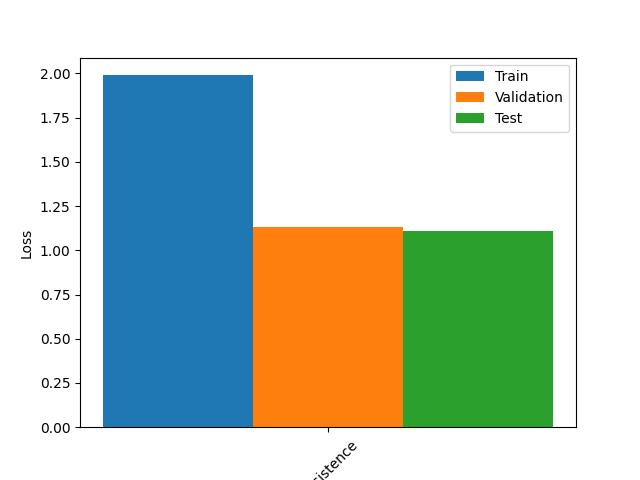
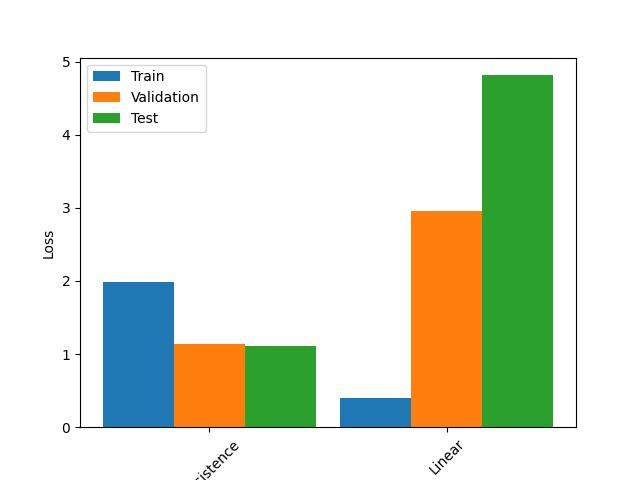
add linear model

diff --git a/Experiments/run_experiments.py b/Experiments/run_experiments.py
@@ -1,4 +1,5 @@
 from experiments_package.models.Baseline import Baseline
+from experiments_package.models.Linear import Linear
 from experiments_package.experiments.experiment1 import Experiment1
 from experiments_package.general.config import ProductIds
 
@@ -11,6 +12,7 @@ if __name__ == "__main__":
                     ProductIds.BENS_LUNCHTIME.value
                 ],
                 forecasting_width=1,
-            )
+            ),
+            "Linear": Linear(window_width=3, label_width=1, feature_size=87),
         }
     )

diff --git a/Experiments/experiments_package/models/Linear.py b/Experiments/experiments_package/models/Linear.py
@@ -1,0 +1,11 @@
+import tensorflow as tf
+
+
+def Linear(window_width, feature_size, label_width):
+    return tf.keras.Sequential(
+        [
+            tf.keras.layers.Flatten(input_shape=(window_width, feature_size)),
+            tf.keras.layers.Dense(units=label_width),
+            tf.keras.layers.Reshape(target_shape=(label_width, 1)),
+        ]
+    )

diff --git a/Experiments/experiments_package/experiments/experiment1.py b/Experiments/experiments_package/experiments/experiment1.py
@@ -1,7 +1,6 @@
 import tensorflow as tf
 from experiments_package.general.config import DatasetOptions
 from experiments_package.general.experiment import Experiment
-from experiments_package.models.Baseline import Baseline
 
 
 class Experiment1(Experiment):
